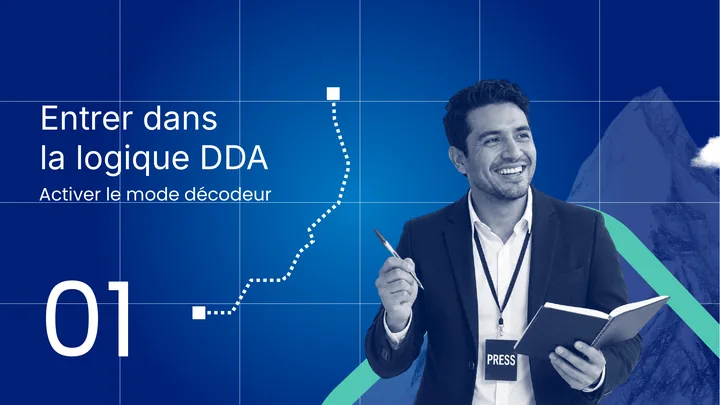
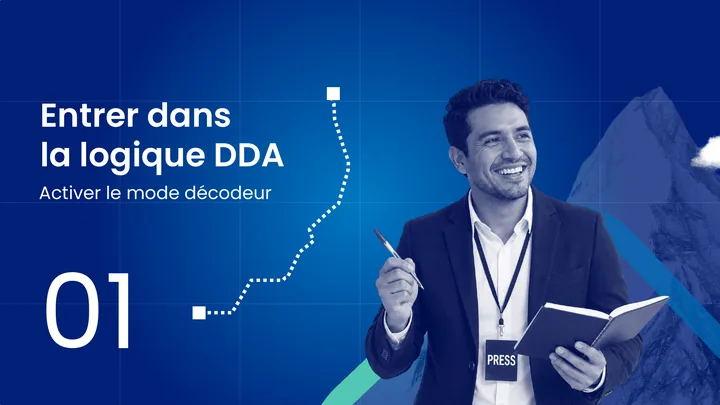
Add files via upload

diff --git a/index.html b/index.html
@@ -16,9 +16,9 @@
 <title>Graphiste PowerPoint freelance à Paris | MerciMarina</title>
 <link rel="stylesheet" href="style.css">
 <style>
-/* Méthode : titre sur deux lignes (2e ligne en graisse normale), illustration à côté du titre */
+/* Méthode : titre sur deux lignes, entièrement en gras, illustration à côté du titre */
 .step h3{font-size:clamp(22px,6vw,28px);white-space:nowrap}
-.step h3 .lt{display:block;font-weight:400;opacity:.85}
+.step h3 .lt{display:block}
 @media (min-width:1400px){.step h3{font-size:clamp(20px,calc(2.5vw - 14px),28px)}}
 /* Typo : services en minuscules et semi-gras */
 .item > button{text-transform:none;letter-spacing:0}
@@ -30,11 +30,12 @@
 /* Typo : numéro du formulaire sans italique */
 .qn em{font:700 1em/1 var(--f);font-style:normal}
 /* Carrousel « style graphique » v3 : grand panneau, 4 rangées inclinées à plat */
-.sg-head{padding-top:100px;padding-bottom:44px;text-align:center}
+section.sg{padding:0}
+.sg-head{padding-top:48px;padding-bottom:44px;text-align:center}
 .sg-note{margin:18px auto 0;max-width:60ch;font-size:15px;color:var(--muted);text-wrap:balance}
-.sg-stage{position:relative;height:clamp(440px,56vw,760px);overflow:hidden;isolation:isolate;width:min(1520px,calc(100% - 32px));margin:0 auto 110px;
+.sg-stage{position:relative;height:clamp(440px,56vw,760px);overflow:hidden;isolation:isolate;width:100%;margin:0;
  background:linear-gradient(rgba(255,255,255,.5) 1px,transparent 1px) 0 0/52px 52px,linear-gradient(90deg,rgba(255,255,255,.5) 1px,transparent 1px) 0 0/52px 52px,radial-gradient(110% 80% at 50% 10%,#f5f9ff 0%,#d9eafe 50%,#bcd8fb 100%);
- box-shadow:0 0 0 1px rgba(6,18,46,.06) inset,0 40px 80px -50px rgba(6,18,46,.45)}
+}
 .sg-stage::after{content:"";position:absolute;inset:0;z-index:2;pointer-events:none;box-shadow:0 1px 0 rgba(255,255,255,.9) inset,0 0 80px 10px rgba(30,70,140,.16) inset}
 .sg-plane{position:absolute;left:50%;top:50%;width:max-content;display:grid;gap:30px;transform:translate(-50%,-50%) rotate(-8deg)}
 .sg-row{display:flex;gap:30px;will-change:transform}
@@ -44,8 +45,14 @@
 .sg-lab{position:absolute;left:12px;bottom:12px;padding:7px 12px;border-radius:999px;background:rgba(6,18,46,.62);color:#fff;font:600 12px/1 var(--f);backdrop-filter:blur(8px);opacity:0;transform:translateY(6px);transition:opacity .3s,transform .3s}
 .sg-tile:hover{transform:translateY(-8px) scale(1.04);box-shadow:0 1px 0 rgba(255,255,255,.7) inset,0 0 0 1px rgba(6,18,46,.08),0 50px 70px -30px rgba(6,18,46,.6),0 12px 20px -10px rgba(6,18,46,.22)}
 .sg-tile:hover .sg-lab{opacity:1;transform:none}
-@media (max-width:700px){.sg-head{padding-top:72px;padding-bottom:28px}.sg-stage{height:clamp(420px,120vw,560px);margin-bottom:72px}.sg-tile{width:250px;border-radius:12px}.sg-row,.sg-plane{gap:18px}}
+@media (max-width:700px){.sg-head{padding-top:40px;padding-bottom:28px}.sg-stage{height:clamp(420px,120vw,560px)}.sg-tile{width:250px;border-radius:12px}.sg-row,.sg-plane{gap:18px}}
 @media (prefers-reduced-motion:reduce){.sg-tile,.sg-lab{transition:none}}
+/* Services : quadrillage très léger sur les côtés, fondu vers le centre */
+#services{position:relative;isolation:isolate}
+#services::before{content:"";position:absolute;inset:0;z-index:-1;pointer-events:none;
+ background:linear-gradient(rgba(111,177,247,.16) 1px,transparent 1px) 0 0/64px 64px,linear-gradient(90deg,rgba(111,177,247,.16) 1px,transparent 1px) 0 0/64px 64px;
+ -webkit-mask-image:linear-gradient(90deg,#000 0%,transparent 30%,transparent 70%,#000 100%),linear-gradient(transparent,#000 18%,#000 82%,transparent);-webkit-mask-composite:source-in;
+ mask-image:linear-gradient(90deg,#000 0%,transparent 30%,transparent 70%,#000 100%),linear-gradient(transparent,#000 18%,#000 82%,transparent);mask-composite:intersect}
 </style>
 <script type="application/ld+json">{"@context":"https://schema.org","@type":"ProfessionalService","name":"MerciMarina","url":"https://mercimarina.fr/","image":"https://mercimarina.fr/og-image.jpg","email":"hello@mercimarina.fr","description":"Graphiste PowerPoint freelance : présentations commerciales, pitch decks, supports de formation, conférences et appels d’offres sur mesure.","founder":{"@type":"Person","name":"Marina","jobTitle":"Graphiste PowerPoint freelance"},"address":{"@type":"PostalAddress","addressLocality":"Paris","addressCountry":"FR"},"areaServed":["Paris","France"],"serviceType":["Présentation commerciale","Pitch deck","Support de formation","Conférence et événement","Appel d’offres"],"sameAs":["https://www.malt.fr/profile/marinavu"]}</script>
 </head>
@@ -89,7 +96,7 @@
 <div class="band">
 <!-- 5 · Réalisations -->
 <section id="realisations">
- <div class="wrap"><p class="kicker">Réalisations</p><h2 class="title">Découvrez mes<br>dernières réalisations</h2></div>
+ <div class="wrap"><p class="kicker">Découvrez</p><h2 class="title">Mes dernières réalisations</h2></div>
  <div class="wks"> 
   <a class="wk k-myc" href="realisation-myconnectingia.html"><span class="fl"><span class="fi"><img class="f" alt="MyconnectingIA" src="myconnectingia-presentation.webp" loading="lazy" decoding="async"><img class="b" alt="" src="myconnectingia-exemple-presentation.webp" loading="lazy" decoding="async"><span class="glass"><h3>MyconnectingIA</h3><span class="tag">Présentation commerciale</span></span></span></span></a>
   <a class="wk k-fyd" href="realisation-fydem.html"><span class="fl"><span class="fi"><img class="f" alt="Fydem" src="fydem-presentation.webp" loading="lazy" decoding="async"><img class="b" alt="" src="fydem-exemple-presentation.webp" loading="lazy" decoding="async"><span class="glass"><h3>Fydem</h3><span class="tag">Pitch deck</span></span></span></span></a>
